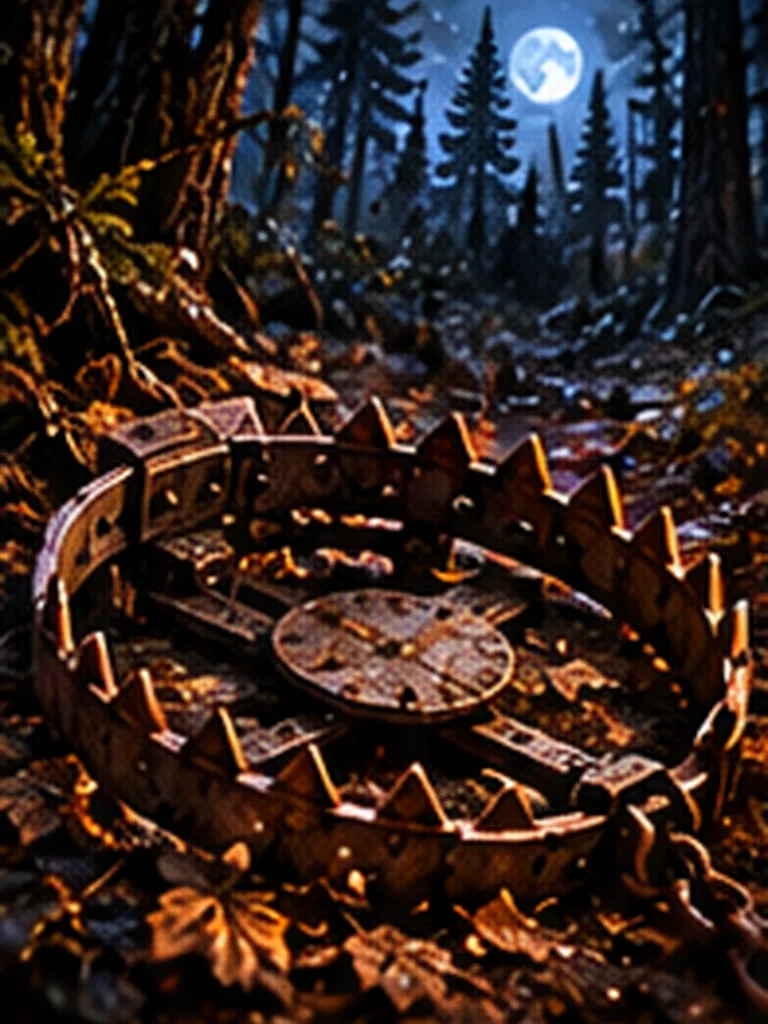
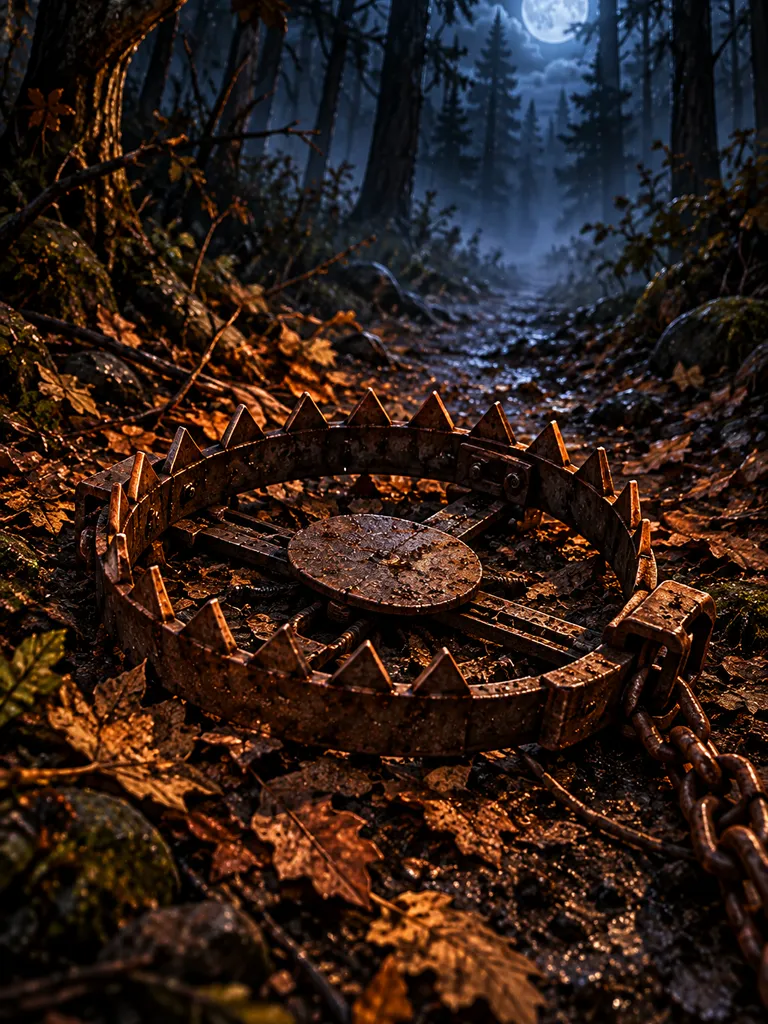
Nouvelles illustrations : Commissaire, Sergente et Piège à loup en pleine résolution (v47)
Claude-Session: https://claude.ai/code/session_016g3BoVyaicdDwiY8Lner9p

diff --git a/index.html b/index.html
@@ -7,7 +7,7 @@
 <title>Dernier Abri</title>
 <link rel="preconnect" href="https://fonts.googleapis.com">
 <link rel="stylesheet" href="https://fonts.googleapis.com/css2?family=Special+Elite&family=Atkinson+Hyperlegible:wght@400;700&display=swap">
-<link rel="stylesheet" href="src/style.css?v=46">
+<link rel="stylesheet" href="src/style.css?v=47">
 </head>
 <body>
 
@@ -29,8 +29,8 @@
 </div>
 <div class="overlay" id="ov"><div class="panel" id="panel"></div></div>
 
-<script src="src/engine.js?v=46"></script>
-<script src="src/audio.js?v=46"></script>
-<script src="src/game.js?v=46"></script>
+<script src="src/engine.js?v=47"></script>
+<script src="src/audio.js?v=47"></script>
+<script src="src/game.js?v=47"></script>
 </body>
 </html>

diff --git a/src/game.js b/src/game.js
@@ -142,7 +142,7 @@ function cardFace(t,o={}){const U0=Z.U[t],D=o.base?U0:Z.stat(G,t),r=rar(t),st=ca
 const art=t=>{const u=Z.U[t]&&artUrl(t);return u?`<span class="art" style="background-image:url('${u}')"></span>`:svg(t)};
 const cc=t=>`var(--k-${Z.U[t].cat})`;
 // à changer à chaque mise en ligne : permet de vérifier sur le téléphone qu'on a la dernière version
-const VERSION='v46 · 15 oct.';
+const VERSION='v47 · 15 oct.';
 // slowT : ralenti (mort du Colosse) jusqu'à cet instant
 const TICK=430;let SPEED=1,slowT=0;const tickMs=()=>TICK/SPEED*(performance.now()<slowT?3:1);
 const reduce=matchMedia('(prefers-reduced-motion: reduce)').matches;
